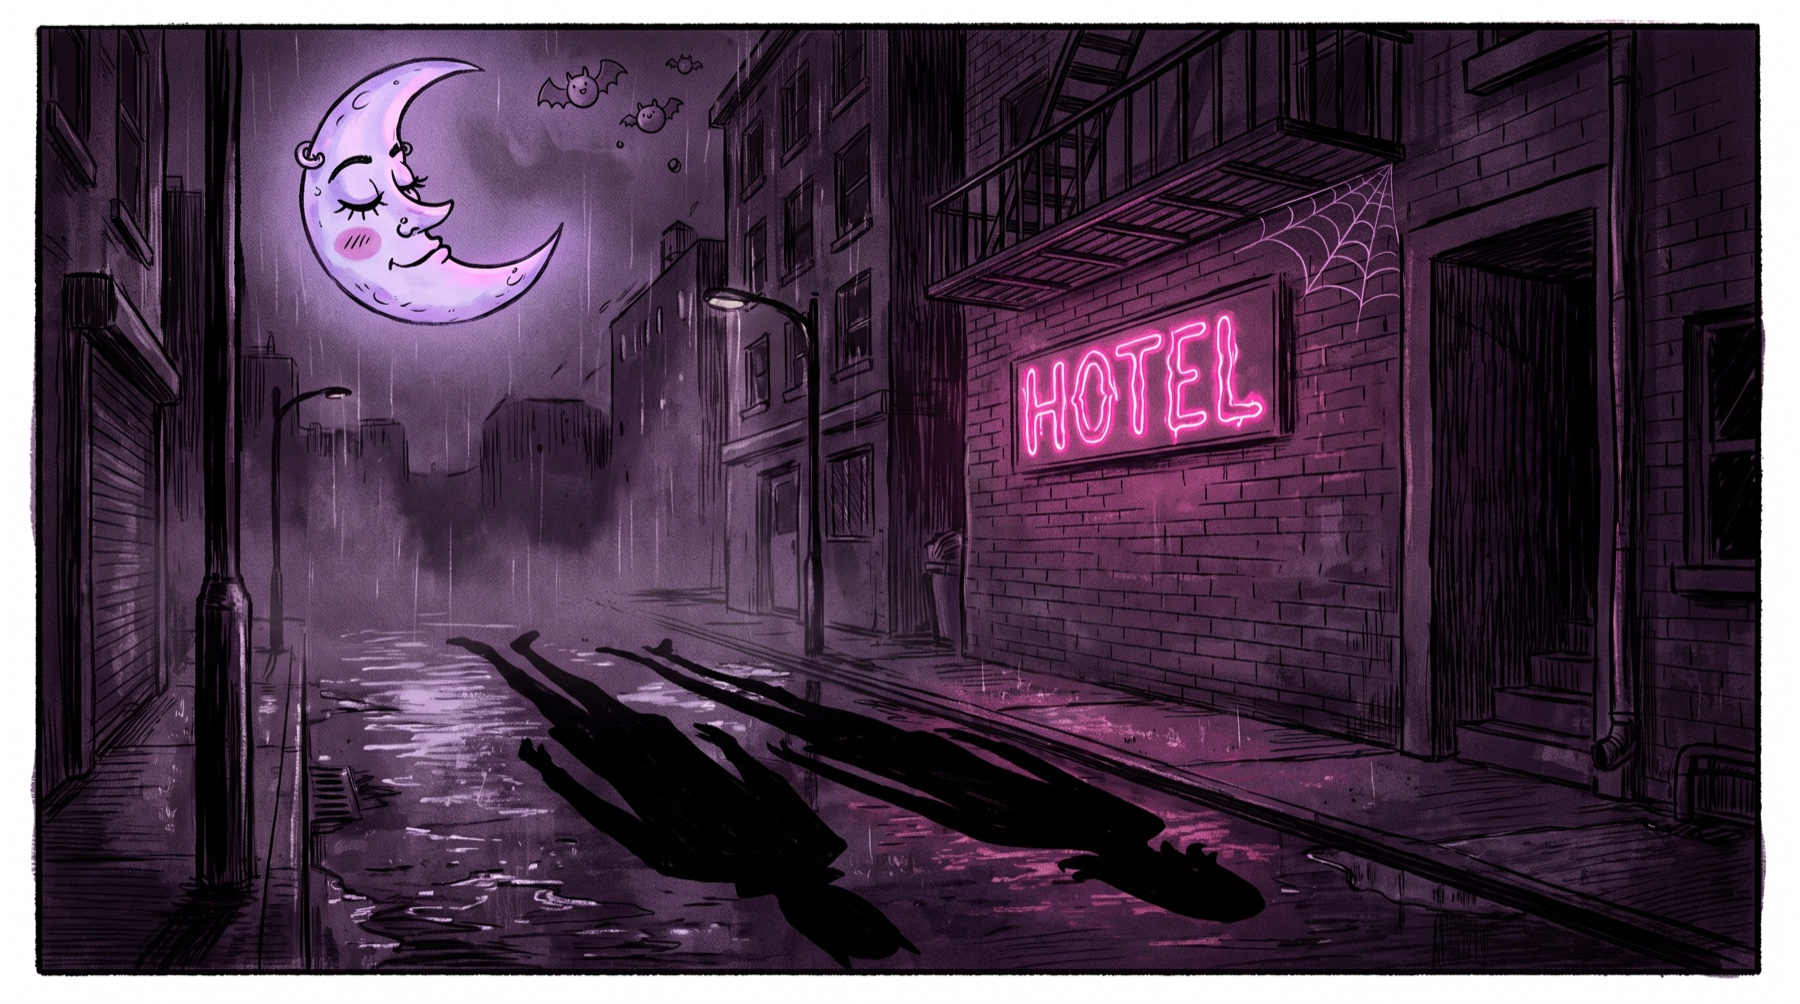
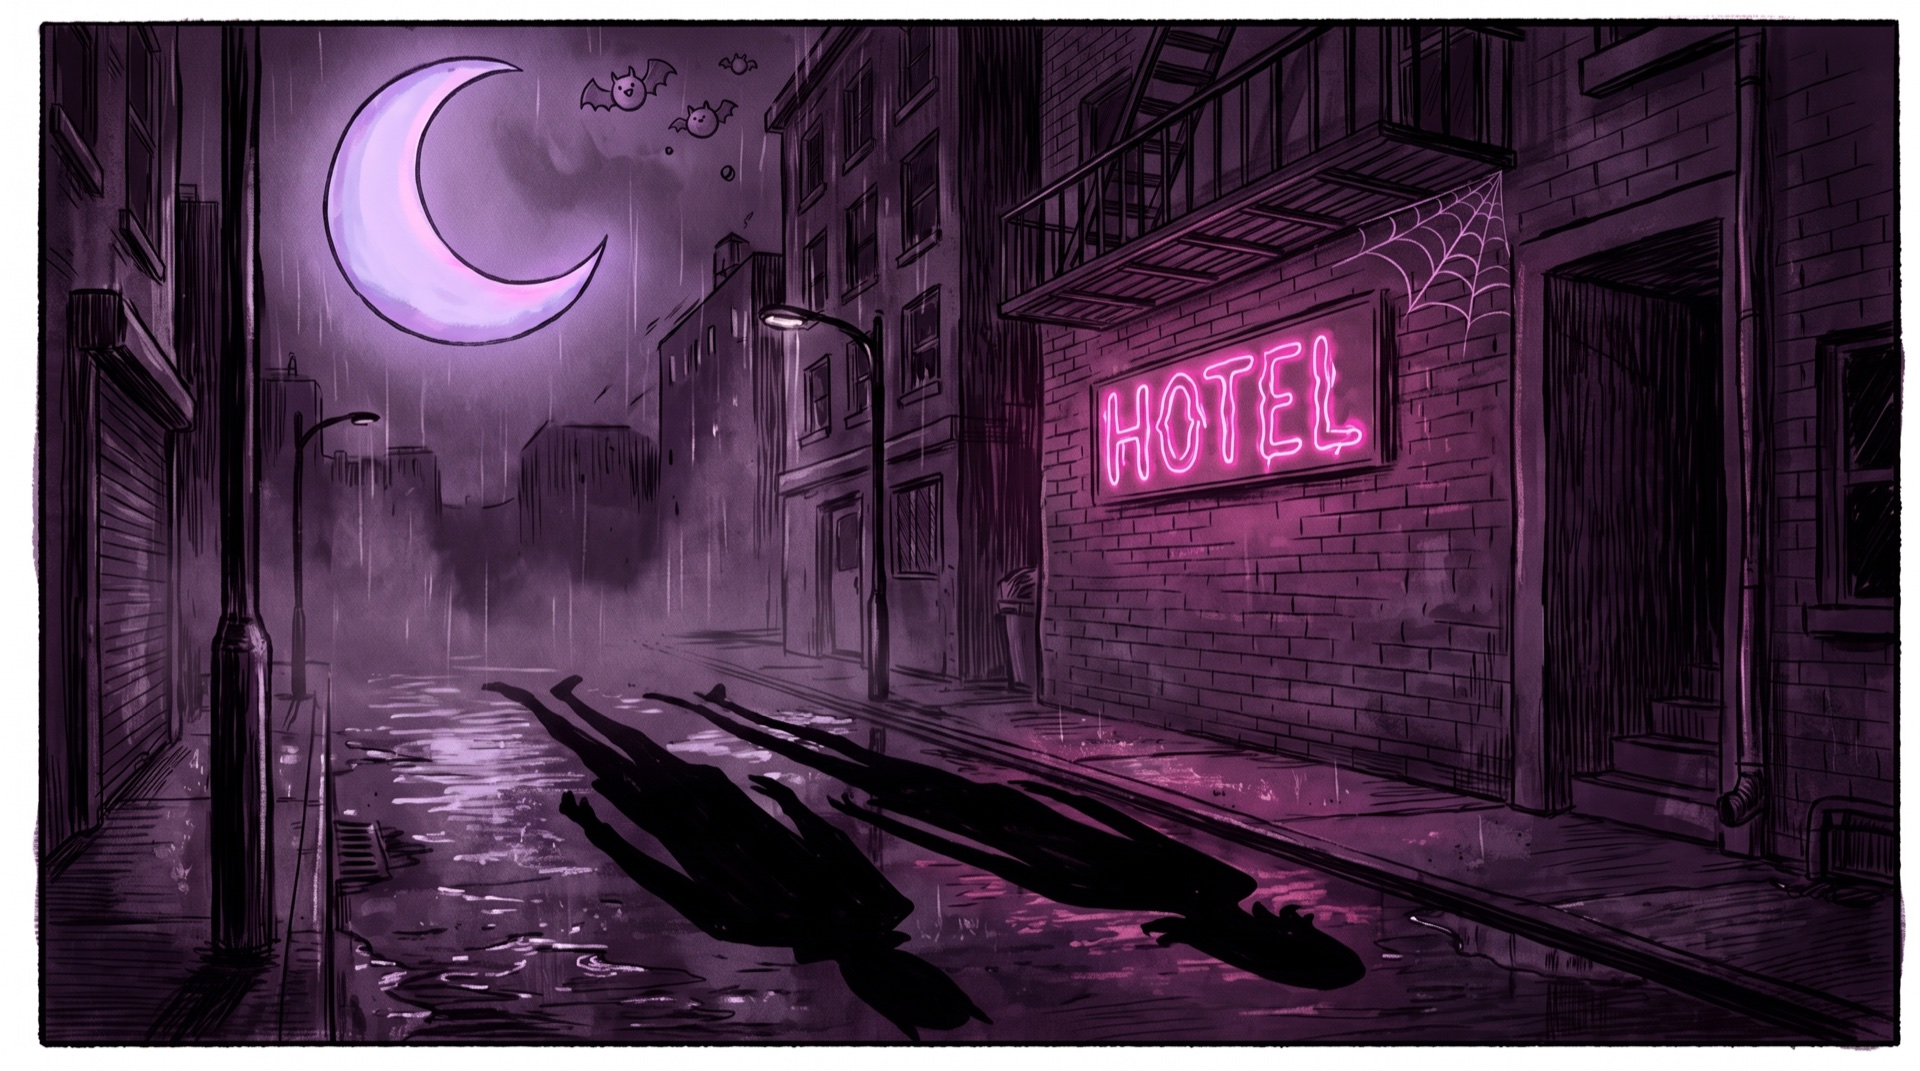
Shadows page cleanup: faceless moon hero, drop "single" copy, remove EP→player buttons
- Regenerated /shadows/hero.jpg with a plain crescent (no moon face)
- Removed "the single"/"the new single" copy for Shadows (Shadows page, Index, marquee, MapHub aria)
- Removed the EP buttons that navigated to the player (/dear-joshua): Shadows, MapHub, LocationPage, Index
- Copy: Shadows = out 7/31, Dear Joshua = 8/21 (already consistent)

diff --git a/src/pages/Shadows.tsx b/src/pages/Shadows.tsx
@@ -5,7 +5,7 @@ import CountdownTimer from "@/components/CountdownTimer";
 import TrulyList from "@/components/TrulyList";
 import PageMeta from "@/components/PageMeta";
 
-// Shadows — the new single. The whole gated world counts down to this drop.
+// Shadows. The whole gated world counts down to this drop.
 // 12:00am ET, July 31 2026 (matches the arm-gate LAUNCH + landing countdown).
 const SHADOWS_RELEASE = new Date("2026-07-31T00:00:00-04:00");
 // Same master the Chateau (Do Not Disturb) game + karaoke use.
@@ -27,8 +27,8 @@ const Shadows: React.FC = () => {
   return (
     <>
       <PageMeta
-        title="SHADOWS — the new single — TRULYS WORLD"
-        description="Truly Young's new single Shadows. Out July 31, 2026. Pre-save and get notified the moment it drops."
+        title="SHADOWS — TRULYS WORLD"
+        description="Shadows by Truly Young. Out July 31, 2026. Get notified the moment it drops."
       />
       <main className="relative min-h-[100dvh] w-full overflow-hidden bg-[#0a0510] text-white grain-overlay">
         {/* full-bleed hero */}
@@ -61,12 +61,6 @@ const Shadows: React.FC = () => {
           >
             ← the map
           </button>
-          <button
-            onClick={() => navigate("/dear-joshua")}
-            className="font-whimsy text-[13px] text-pink-light/90 hover:text-white glitter-glow transition-colors"
-          >
-            ♥ the EP →
-          </button>
         </div>
 
         {/* hero content */}
@@ -77,7 +71,7 @@ const Shadows: React.FC = () => {
             animate={{ opacity: 1, y: 0 }}
             transition={{ delay: 0.3, duration: 0.6 }}
           >
-            ✦ The New Single ✦
+            ✦ Out July 31 ✦
           </motion.p>
 
           <motion.div

diff --git a/src/pages/Index.tsx b/src/pages/Index.tsx
@@ -11,7 +11,7 @@ import Shape from "@/components/Shape";
 import HandDrawnFrame from "@/components/HandDrawnFrame";
 import PageMeta from "@/components/PageMeta";
 
-// Shadows — the new single. The whole world is gated to this drop.
+// Shadows. The whole world is gated to this drop.
 // 12:00am ET, July 31 2026 (matches the arm-gate LAUNCH in Gate.tsx).
 const SHADOWS_RELEASE = new Date("2026-07-31T00:00:00-04:00");
 
@@ -31,7 +31,7 @@ const Index: React.FC = () => {
     <>
       <PageMeta
         title="TRULYS WORLD — Enter the Map"
-        description="Truly Young's world is a map of Los Angeles. Every neighborhood is a case file. New single Shadows — July 31, 2026."
+        description="Truly Young's world is a map of Los Angeles. Every neighborhood is a case file. Shadows — out July 31, 2026."
       />
       <motion.main
         variants={reduceMotion ? undefined : pageVariants}
@@ -135,13 +135,7 @@ const Index: React.FC = () => {
               onClick={() => navigate("/shadows")}
               className="btn-retro shimmer-sweep text-[13px] px-6 py-2 mt-1"
             >
-              <span>&#10047;</span> the Shadows single <span>&#10047;</span>
-            </button>
-            <button
-              onClick={() => navigate("/dear-joshua")}
-              className="font-whimsy text-[13px] text-pink-light hover:text-white glitter-glow transition-colors"
-            >
-              ♥ hear Dear Joshua →
+              <span>&#10047;</span> Shadows — out 7.31 <span>&#10047;</span>
             </button>
             <button
               onClick={() => navigate("/sing")}

diff --git a/src/pages/MapHub.tsx b/src/pages/MapHub.tsx
@@ -326,11 +326,8 @@ const MapHub: React.FC = () => {
             <button onClick={() => navigate("/world")} className="btn-retro !text-[10px] !py-1 !px-3" aria-label="Truly's World — the globe">
               &#9673; GLOBE
             </button>
-            <button onClick={() => navigate("/shadows")} className="btn-retro !text-[10px] !py-1 !px-3" aria-label="Shadows — the new single">
+            <button onClick={() => navigate("/shadows")} className="btn-retro !text-[10px] !py-1 !px-3" aria-label="Shadows">
               &#10022; SHADOWS
-            </button>
-            <button onClick={() => navigate("/dear-joshua")} className="btn-retro !text-[10px] !py-1 !px-3">
-              &#9829; EP
             </button>
             {member && (
               <button onClick={() => navigate("/account")} aria-label="Your member dashboard"

diff --git a/src/pages/LocationPage.tsx b/src/pages/LocationPage.tsx
@@ -324,7 +324,6 @@ const LocationPage: React.FC = () => {
                     ▶ {gv.action!.label}
                   </button>
                 ))}
-                <button onClick={() => navigate("/dear-joshua")} className="btn-retro !text-[10px] !py-1 !px-3">&#9829; EP</button>
               </div>
             </div>
 

diff --git a/src/components/MarqueeStrip.tsx b/src/components/MarqueeStrip.tsx
@@ -1,7 +1,7 @@
 import React from 'react';
 
 const items = [
-  '✧ Shadows — the new single ✧',
+  '✧ Shadows — out 7.31 ✧',
   '♥ Dear Joshua — the EP — Aug 21 ♥',
   '✦ New case files unlocking ✦',
   '♥ The map is alive ~ explore ♥',
